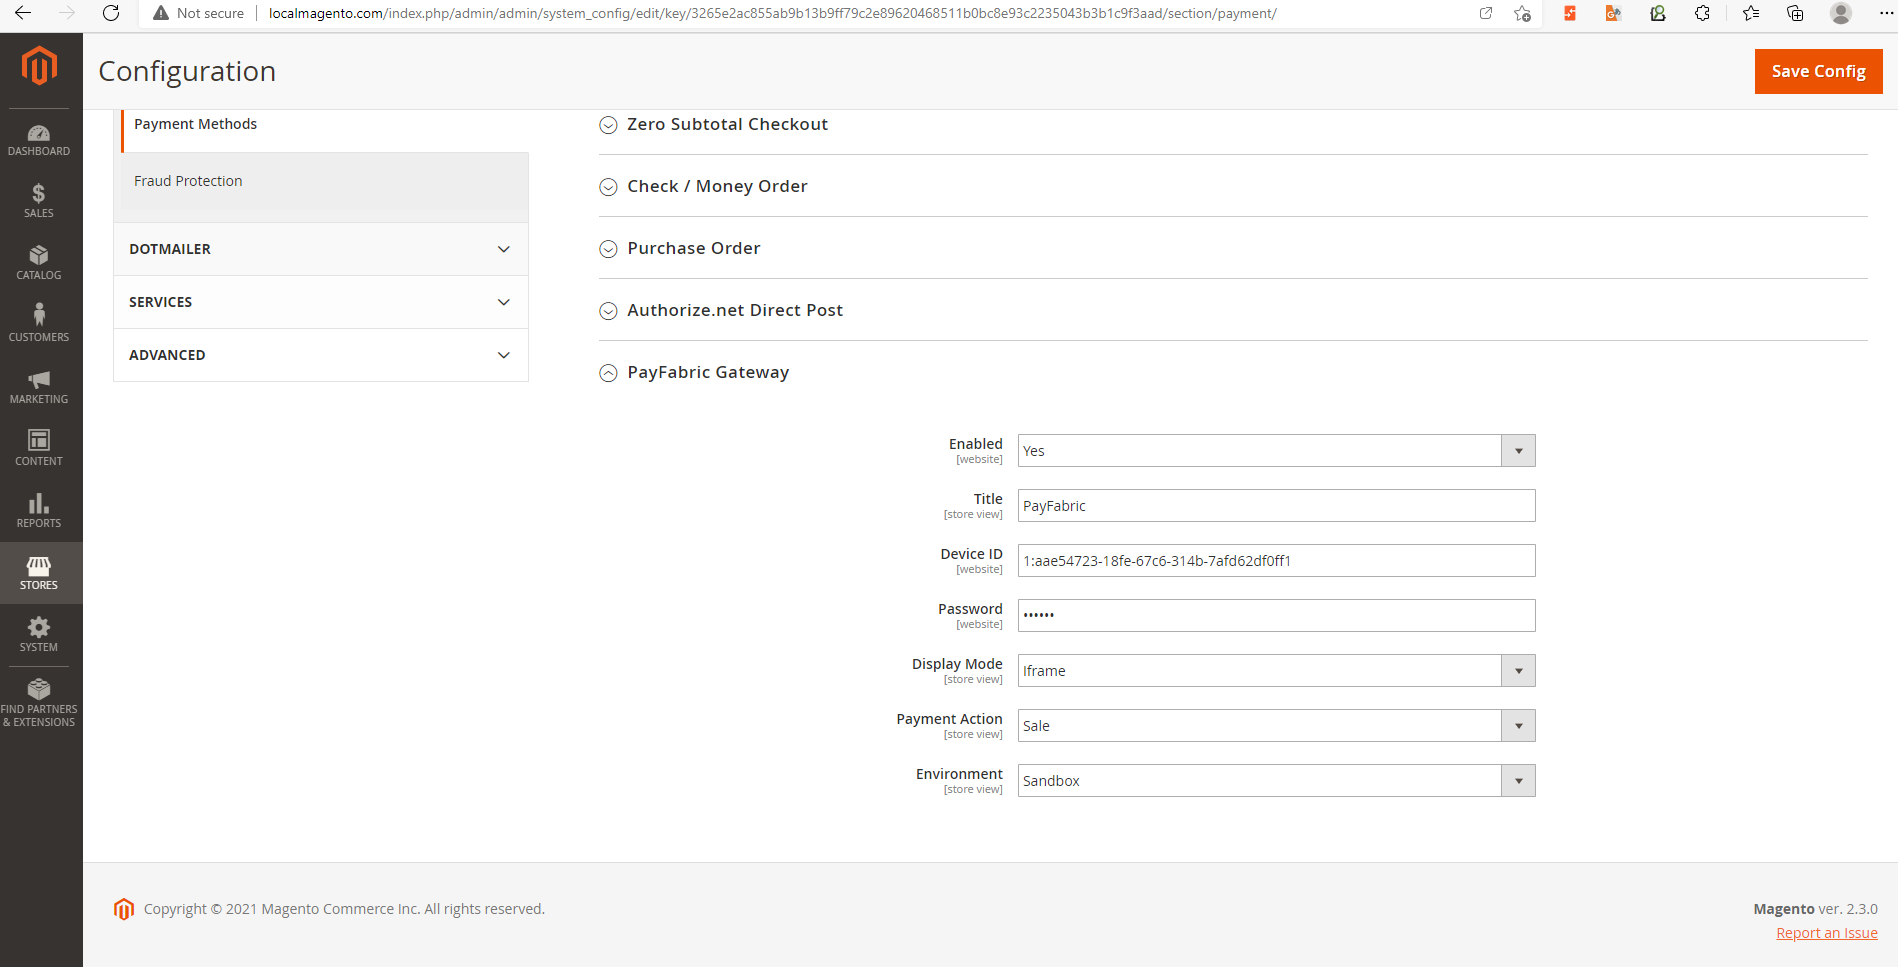
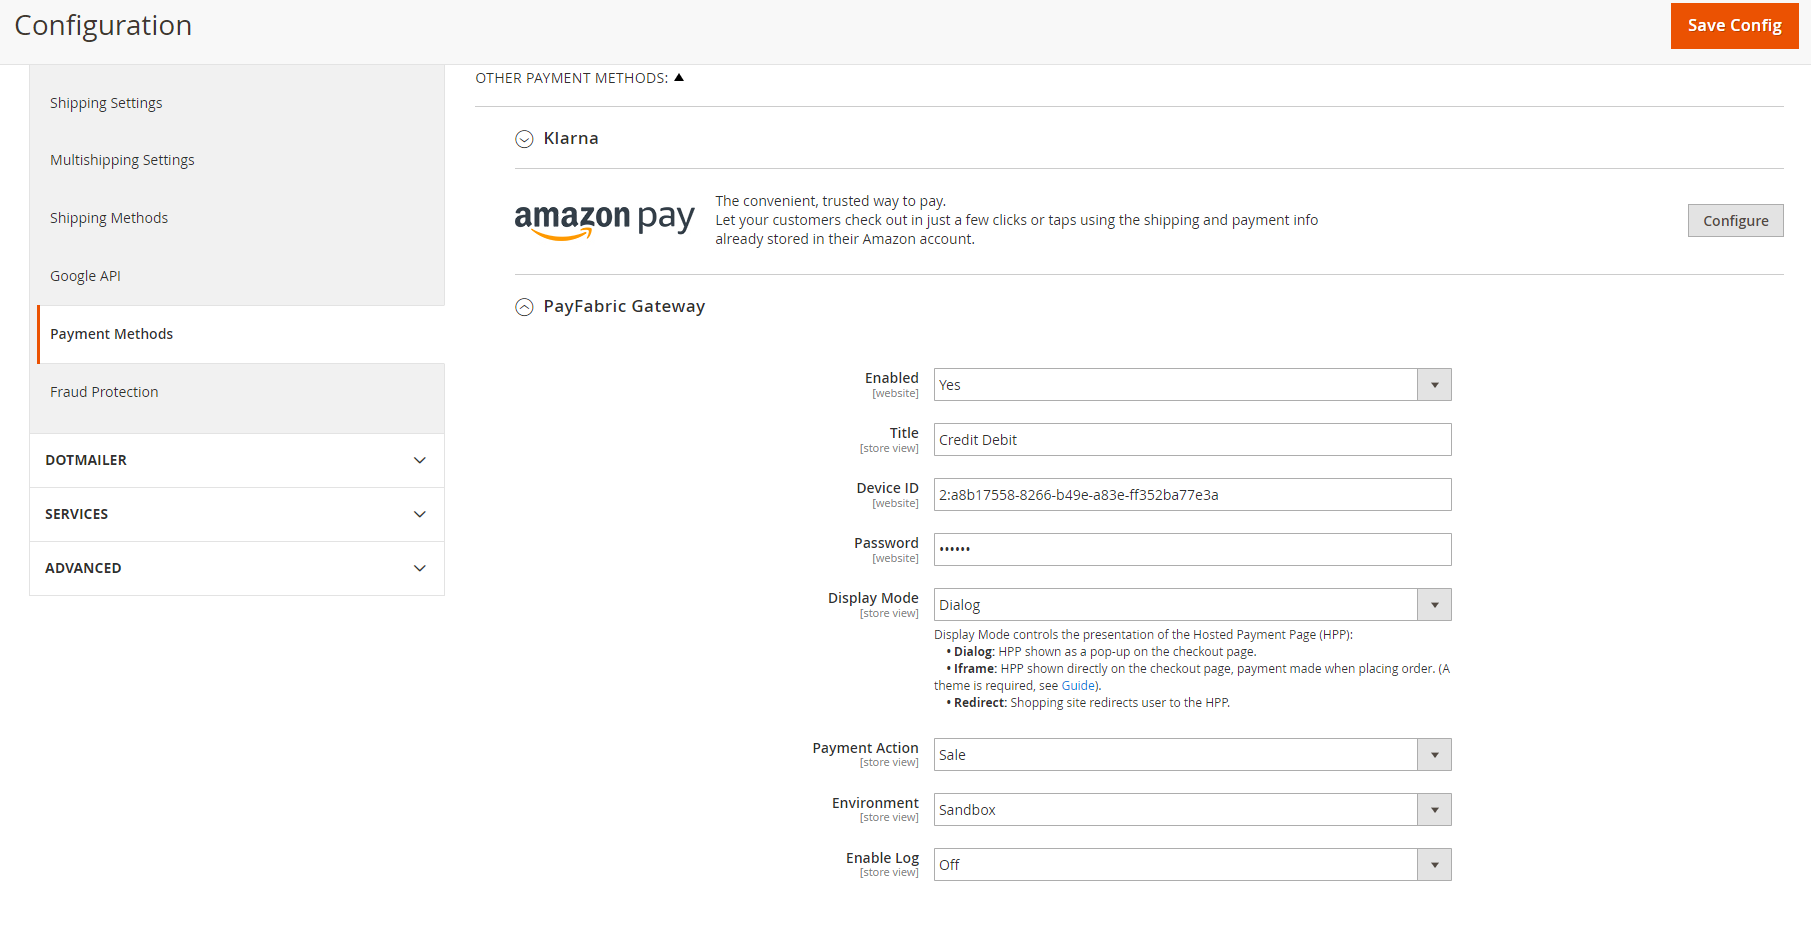
update display mode desc

diff --git a/readme.md b/readme.md
@@ -41,12 +41,7 @@ Please refer to user guide in [PayFabric](https://github.com/PayFabric/Portal/bl
 In your Magneto account:
 * Go to STORES > Configuration > Sales > Payment Methods to enter your gateway and device data.
 ![image](ScreenShots/setting_admin.png)
-* Next Select your Payment Action.   Select Sale for a normal website purchase transaction.  This is the default option and automatically executes both the authorization and capture for the transaction.   The funds from this transaction will be included in your next batch settlement.
-    * If you choose Authorization, see the Capture instructions below.
-* Click Save Config.
-* Go to System > Cache Management to flush Magento cache.
-![image](ScreenShots/cache_admin.png)
-* When using "Iframe" as your Display Mode, you must create a theme to add the following custom js and configure this theme as default theme in the PayFabric Portal(please refer to [PayFabric Themes](https://github.com/PayFabric/Portal/blob/master/PayFabric/Sections/Themes.md "Themes")), please don't do that for other display modes which will affect your payment UI.
+* Select your Display Mode. When using "Iframe" as your Display Mode, you must create a theme to add the following custom js and configure this theme as default theme in the PayFabric Portal(please refer to [PayFabric Themes](https://github.com/PayFabric/Portal/blob/master/PayFabric/Sections/Themes.md "Themes")), please don't do that for other display modes which will affect your payment UI.
 ```javascript
 $(".BillingContent").hide();
 $("#payButton").hide();
@@ -67,7 +62,11 @@ var receiveMessage = function (event)
 }
 window.addEventListener("message", receiveMessage, false);
 ```
-
+* Next Select your Payment Action. Select Sale for a normal website purchase transaction.  This is the default option and automatically executes both the authorization and capture for the transaction.   The funds from this transaction will be included in your next batch settlement.
+    * If you choose Authorization, see the Capture instructions below.
+* Click Save Config.
+* Go to System > Cache Management to flush Magento cache.
+![image](ScreenShots/cache_admin.png)
 * When using Authorization as your Payment Action, you must “Capture” the transaction when the sale has been completed. If you do not “Capture” the Authorization, no funds will be settled as the transaction is not complete.
     * To Capture an Authorized transaction: Click on "Invoice" button at the top right side.
     ![image](ScreenShots/invoice_create_admin.png)
